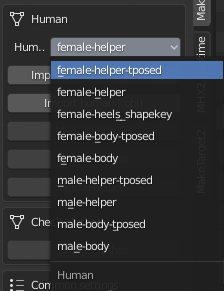
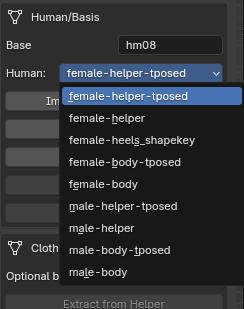
changes for handling of makeclothes with MakeHuman II
also deleted a bunch of references for MPFB version I. MPFB II contains
a version of makeclothes as well.

diff --git a/content/Assets/CreatingAssets/MakeClothes/introduction.md b/content/Assets/CreatingAssets/MakeClothes/introduction.md
@@ -10,22 +10,20 @@ weight: 5
 
 
 
-MakeClothes2 is used to create clothes for MakeHuman characters. It could be installed as a single plugin, but at least MakeSkin should be used, if the creation of material is also part of your work. Furthermore it is able to work with the human base mesh provided by MPFB.
+MakeClothes is used to create clothes for MakeHuman characters. It could be installed as a single plugin, but at least MakeSkin should be used, if the creation of material is also part of your work. When you work with hm08 meshes, you can also use MPFB2 to create clothes. In case you work with MakeHuman II and use a different mesh, MakeClothes is needed.
 
 The term "clothes" is not really correct, the program creates any kind of mesh which can be used for a character generated by MakeHuman. This also includes hair and different tongue or a new topology for the skin. To use MakeClothes in Blender knowledge of Blender itself is needed.
 
 ## Notation
 
 
-To understand the process, a short summary of terms used in MakeHuman:
+To understand the process, a short summary of terms used in MakeHuman I and II:
 
-* **base mesh** and **helper mesh**: The base mesh is the standard body mesh including a helper-mesh used in MakeHuman.  
+* **base mesh** and **helper mesh**: The base mesh is the standard body mesh ("hm08") including a helper-mesh used in MakeHuman. A base mesh for MakeHuman II can also be a different mesh, since it is not necessarily a human it is called a **base character**.
 
 * **proxies**: in a way all meshes projected on the body are proxies. Do differentiate between a piece of cloth and an alternative mesh for the skin, the alternative mesh is called a **topology**.
 
 * **topologies**: special case for a proxy used as a mesh for the skin. Typically used for e.g. a different resolution or to add genitals.
-
-* **smoothing**: MakeHuman may use smoothing on a base mesh. This results in a mesh with 4 times as many vertices. <u>This mesh cannot be used for MakeClothes.</u>
 
 * **clothes**: clothes will be all meshes MakeClothes is able to create. Hair and body proxies included.
 
@@ -33,31 +31,24 @@ To understand the process, a short summary of terms used in MakeHuman:
 
 * **weighting**: when a character is posed the skin but also the clothes should follow the bones. So weights are added to each vertex. These weights determine how much a bone will be followed. MakeClothes uses a similar construction, since the clothes follow vertices on the helper or base mesh.
 
-
-
-![Mc2_meshes_to_use.png](Mc2_meshes_to_use.png)
-
-
-
-Only base mesh and helper can be used to create clothes.
+When you work with MakeClothes, a few base meshes for "hm08"  are added to the plugin.
 
 ## Limits
 
 
-Makeclothes has certain limits according to the internal structure of MakeHuman
+Makeclothes has certain limits according to the internal structure of MakeHuman I and II
 
-* The mesh for the clothes can either be done with quads or with triangles. No mixture allowed. Advantage for quads is a smoother design with a later usage of subdivision surface algorithm (smoothing). Triangles are normally used for e.g. sculpting or when you work with 3rd party meshes.
+* In case of MakeHuman I the mesh for the clothes can either be done with quads or with triangles. No mixture allowed. Advantage for quads is a smoother design with a later usage of subdivision surface algorithm (smoothing). Triangles are normally used for e.g. sculpting or when you work with 3rd party meshes. MakeHuman II also works with other polygon meshes.
 
 * only one material for one item of clothing is allowed in MakeHuman
 
-* each vertex of an item of clothing uses 3 vertices on body or helper to find its position according to the human created in MakeHuman
+* each vertex of an item of clothing uses 3 vertices on base mesh or helper to find its position according to the base character created in MakeHuman
 
-* each vertex of an item of clothing needs to be in one (and only one) vertex group. A group of the same name must be created on the human
+* each vertex of an item of clothing needs to be in one (and only one) vertex group. A group of the same name must be created on the base character
 
-* it is possible to create more than one item of clothing with one human
+* it is possible to create more than one item of clothing with one base character
 
-* only one human is allowed when clothes are created. So only one object is "marked as human". However, if you need more than one base mesh, all others can be marked as clothes
-
+* only one base character (human) is allowed when clothes are created. So only one object is "marked as human". However, if you need more than one base mesh, all others can be marked as clothes
 
 
 
@@ -65,66 +56,34 @@ Makeclothes has certain limits according to the internal structure of MakeHuman
 
 
 
-## How to load a human
+## How to load a base character/human
 
 
-MakeHuman uses a mesh called hm08. Makeclothes is prepared to deal with other meshes as well for future versions. When the mesh is changed it must be changed in MakeHuman as well. So this documentation will only consider the hm08 base mesh.
+MakeHuman I uses a mesh called hm08. Makeclothes can also work with different base meshes for MakeHuman II.
 
-To create clothes you can create them directly on the body or on the helper mesh. For underwear the nude body is best choice, but for a coat the helper mesh will be used. A good method for e.g. a skirt or coat is to design the piece of cloth on the nude body and then use the helper mesh for weighting in the end.
+To create clothes on a standard hm08 base mesh you can create them directly on the body or on the helper mesh. For underwear the nude body is best choice, but for a coat the helper mesh will be used. A good method for e.g. a skirt or coat is to design the piece of cloth on the nude body and then use the helper mesh for weighting in the end.
 
-There are currently a few possibilities to load a human. The simplest way is to load a predefined one or to use MPFB, both have some vertex-groups assigned:
+There are currently a few possibilities to load a standard base mesh. Since MPFB 2 also includes the functionality of MakeClothes, only the loading of the predefined human is explained.
 
-
-* **Load a predefined human**
-
-The easiest way directly supported by MakeClothes is to work with the predefined meshes. MakeClothes contains 2 Blend-files which are placed in the "humans" sub-directory of the plugin (male.blend and female.blend). When MakeClothes starts, these blend-files are scanned once and names of the objects starting with "mh_" are presented in a menu. To work with it, select a mesh and press "Import predefined human" button.
-
+MakeClothes contains 2 Blend-files which are placed in the "humans" sub-directory of the plugin (male.blend and female.blend). When MakeClothes starts, these blend-files are scanned once and names of the objects starting with "mh_" are presented in a menu. To work with it, select a mesh and press "Import predefined human" button.
 
 
 ![Mc2_loadpredef.png](Mc2_loadpredef.png)
-
 
 
 In case of a helper mesh, the parts of the mesh are assigned to different vertex-groups to allow an easy selection and use different colors.
 
 After the mesh is loaded these buttons disappear, because one human is already loaded. The loaded mesh is automatically marked as a human. To load another human either delete the human or mark your human as clothes.
 
+To use a base character to be used in MakeHuman II, "Use MakeHuman version II" must be selected, then change the Base accordingly. This character must be loaded with blender (e.g. by appending it from a different file). Then it must be marked as basis.
 
-* **Load the human via MPFB**
+![Mc2_loadbasechar.png](Mc2_loadbasechar.png)
 
-Makehuman Plugin for Blender also can provide a base mesh. Be aware that the best base is an unmodified male or female mesh, because the clothes will fit most of the characters. Do not use alternative topologies in MakeHuman. If you import an human this is already the base mesh. It can be done easily by doing these steps:
-
-
-
-![Mc2_loadhumanmfb.png](Mc2_loadhumanmfb.png)
-
-
-
-The default preset of MakeClothes inside MPFB will mask the helper. It is possible, to switch the masking on or off. To do that, press the button marked in the illustration:
-
-
-
-![Mc2_togglehelper.png](Mc2_togglehelper.png)
-
-
-
-Typically the helper will be switched off, when the clothes are modelled. When you assign the vertex groups you should switch it on, because it makes sense to use groups on the helper for the weighting. It is possible to extract clothes from the helper (even when masked) as long as it is not deleted.
-
-
-
-* **Load normal base.obj file**
-This is the way using the predefined base.obj file which can be downloaded from github. MakeClothes reads the wavefront file. Vertex groups are created according to the .obj file. Disadvantage: this mesh is neither male nor female.
-
-An exported wavefront mesh made by MakeHuman can be used as well (no alternative topology such as male muscled mesh, do not use smoothing and delete the extra eyes). It is possible to export it including the helpers. Unfortunately it has no vertex groups assigned. This must be done in Blender later.
-
-
-* **Load an mhx2 file**
-The body (no alternative topology, do not use smoothing and delete the extra eyes) used by mhx2 export can also be used as a base mesh. When you load it you have to select Override Exported Data and the mark Helper Geometry before importing it.
-
+A configuration file of this basis must be available in data folder of MakeClothes, in this case it is "mh2bot.config". The configuration file supports the current dimensions of the mesh and also groups for a helper.
 
 * **Delete helpers**
 
-If a mesh is loaded and the helpers are not needed, the helpers can be deleted. In this case a vertex-group "body" is expected, all vertices belonging to other groups are deleted. If body is not available, nothing will be done.
+If a mesh is loaded and helpers are not needed, the helpers can be deleted. In this case a vertex-group "body" is expected, all vertices belonging to other groups are deleted. If body is not available, nothing will be done. This only works for hm08 base mesh at the moment.
 
 
 ## Tell MakeClothes the type of the object
@@ -133,15 +92,13 @@ If a mesh is loaded and the helpers are not needed, the helpers can be deleted. 
 ![Mc2_customprops.png](Mc2_customprops.png)
 
 
-
-To create clothes, one object must be marked as human and at least one as clothes. If you work with more than one human, all others must be marked as clothes temporarily. When you mark one object as human a previously marked human will automatically be marked as clothes. The custom properties of the object will hold this information.
+To create clothes, one object must be marked as basis or human and at least one as clothes. If you work with more than one basis, all others must be marked as clothes temporarily. When you mark one object as basis a previously marked basis will automatically be marked as clothes. The custom properties of the object will hold this information.
 
 
 
 ## Create simple clothes (extract from helper)
 
-If a helper mesh is available it is possible to use this helper as a basis for the clothes. Especially for beginners (but also for the advanced for a good weighting) this could be helpful.
-
+If a helper mesh is available it is possible to use this helper as a basis for the clothes. Especially for beginners (but also for the advanced for a good weighting) this could be helpful. Of course this only works for the hm08 base mesh at the moment.
 
 
 ![MC2_extract_helpers.png](MC2_extract_helpers.png)
@@ -155,8 +112,8 @@ The normal way would be to extract either "Tights" or "Skirt". Extract means tha
 
 Vertex-groups are a number of vertices of a mesh forming a group with vertex-group name. These groups are used to determine relations between e.g. vertices on the body and vertices on an item of clothing. The simplest way would be:
 
-* create a group "clothing" on the human
-* assign all vertices of the human to this group
+* create a group "clothing" on the human (or base character)
+* assign all vertices of the base to this group
 * create a group "clothing" on your item of clothing
 * assign all vertices of the item of clothing to this group
 
@@ -166,12 +123,12 @@ So here are examples from some of the assets I did: [Create vertex-groups]({{< r
 
 
 
-## Test the human mesh
+## Test the human mesh or base character
 
-The human loaded with one of the methods usually should not have problems. Nevertheless there is a small test available to check the human. This test is also automatically done when clothes are created.
+The hm08 human loaded from the selection should not have problems. Nevertheless there is a small test available to check the basis. This test is also automatically done when clothes are created.
 
-* the number of human objects must be one
-* there must be one vertex group on the human
+* the number of humans or base characters must be one
+* there must be one vertex group on the basis
 * no vertex belongs to an non-existing group
 
 
@@ -186,9 +143,9 @@ Clothes need a bit more testing.
 
 * clothes should not have stray geometry. These are single vertices or edges. If this problem appears, change into edit mode. The vertices are pre-selected. Simply delete them or change geometry otherwise.
 
-* maximum number of vertices per face is 4. If you have more than this, these faces are selected and must be changed.
+* MakeHuman I only: maximum number of vertices per face is 4. If you have more than this, these faces are selected and must be changed.
 
-* clothes can be quad or triangle meshes. A mixture is not allowed. The process assumes a mesh type and selects the faces to be changed.
+* MakeHuman I only: clothes can be quad or triangle meshes. A mixture is not allowed. The process assumes a mesh type and selects the faces to be changed.
 
 * the process tests if at least one vertex group is available
 
@@ -210,10 +167,17 @@ Clothes need a bit more testing.
 
 The common settings will provide the **license** and the name of the **author**, which will be used for all the clothes generated with this file.
 
-* **Overwrite existing files** is switched off. The name of the item of clothing is used as a filename. If it is necessary to overwrite an existing object, the box must be marked.
+* **Use MakeHuman Version II** is switched off. If you switch it on, the data folder should change and one can enter different base meshes. The test for triangles and quads is no longer executed.
+
+* **Overwrite existing geometry** is switched off. The name of the item of clothing is used as a filename. If it is necessary to overwrite existing geomerty files, the box must be marked. Since Blender can overwrite existent MakeHuman clothes, this option may avoid accidentally overwriting files.
+
+
+* **Overwrite existing material** is switched off. The name of the item of clothing is used as a filename. If it is necessary to overwrite existing material file, the box must be marked. Often a material file is already in a final state, but the geometry needs to be changed.
+
 
 * **Modifiers are allowed**. Typically the mirror modifier may make sense. Be careful with e.g. subdivision surface, because it may produce a huge number of vertices. When the clothes should be designed with subdivision surface but created without, switch off "Allow Modifiers"
 
+* **Save additional debug file** is switched off. If one switches it on, a debug file is written when creating clothes.
 
 
 ## Produce clothes
@@ -247,6 +211,12 @@ The main features of creating clothes are:
 
 
 * **use MakeSkin**: without MakeSkin a simple material is saved for the piece of cloth (white base color). Otherwise the material file of the plugin [[Documentation:MaterialsMakeSkin|MakeSkin]] is used. See "Materials" below.
+
+> **_Data path MakeHuman I:_**  MakeHuman I usually uses the user Documents folder, inside this folder there is a "makehuman" folder. There is a second method, where a file with one line containing the path is added. This file is called makehuman.conf and is found either in .config (Linux) or in the %LOCALAPPDATA% environment (Windows).
+
+> **_Data path MakeHuman II:_**  MakeHuman II works with a configuration file (JSON). The name is makehuman2.conf. It is either in the .config/makehuman2 folder (Linux) or in %LOCALAPPDATA%/makehuman2 folder (Windows). In case a sandboxed python3 interpreter is used for MakeHuman II, Blender checks for packages named "PythonSoftwareFoundation.Python" and will also find the sandboxed folder, but only if there is only one version of python installed.
+
+* **alternative path**: MakeClothes tries to find the data folder of MakeHuman I and II (see above). This method is different for different operating systems. If the data path is not where you want the resulting files, enter an alternative pathname.
 
 * **subdir**: the directory inside where the clothes will be created.
 
